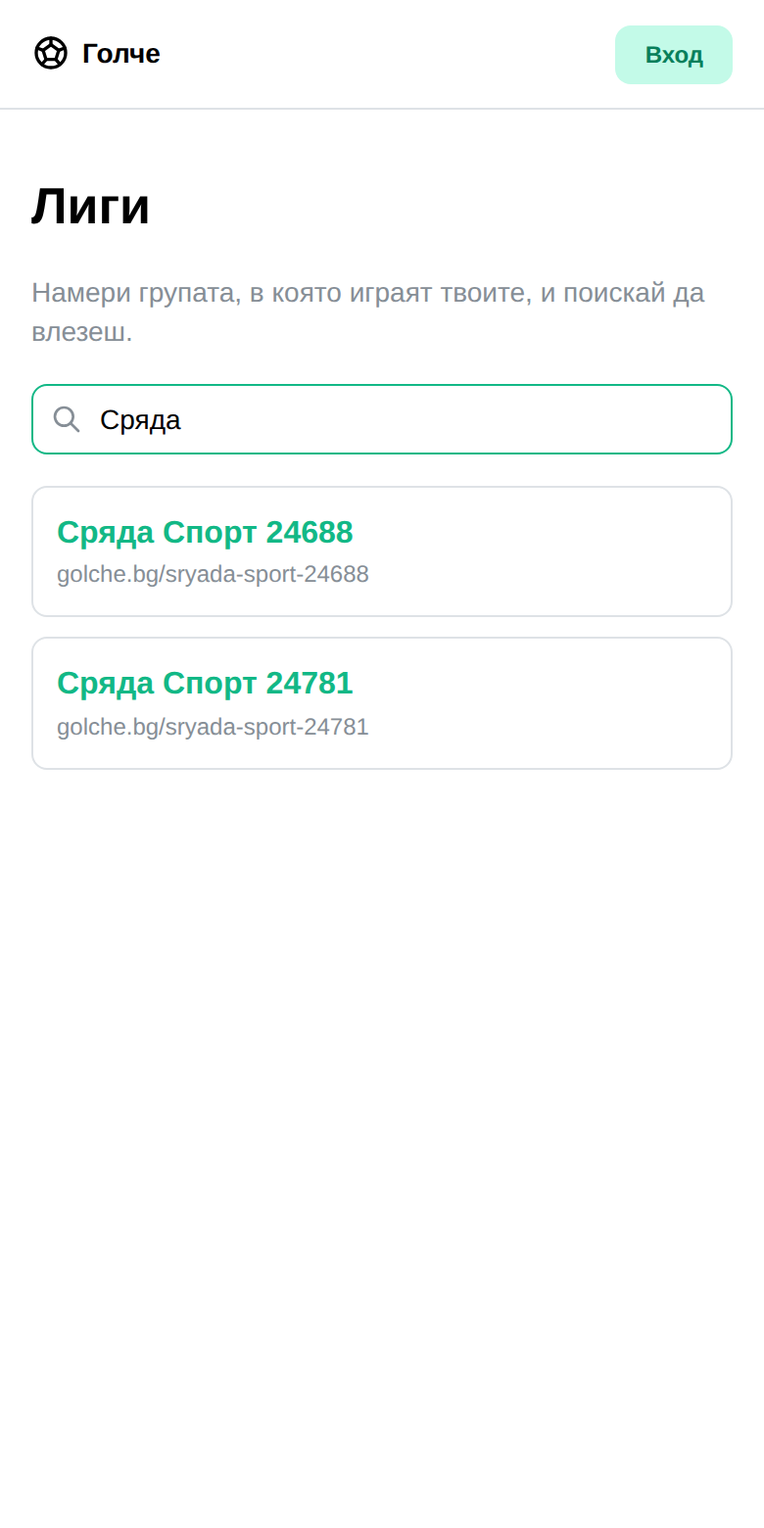
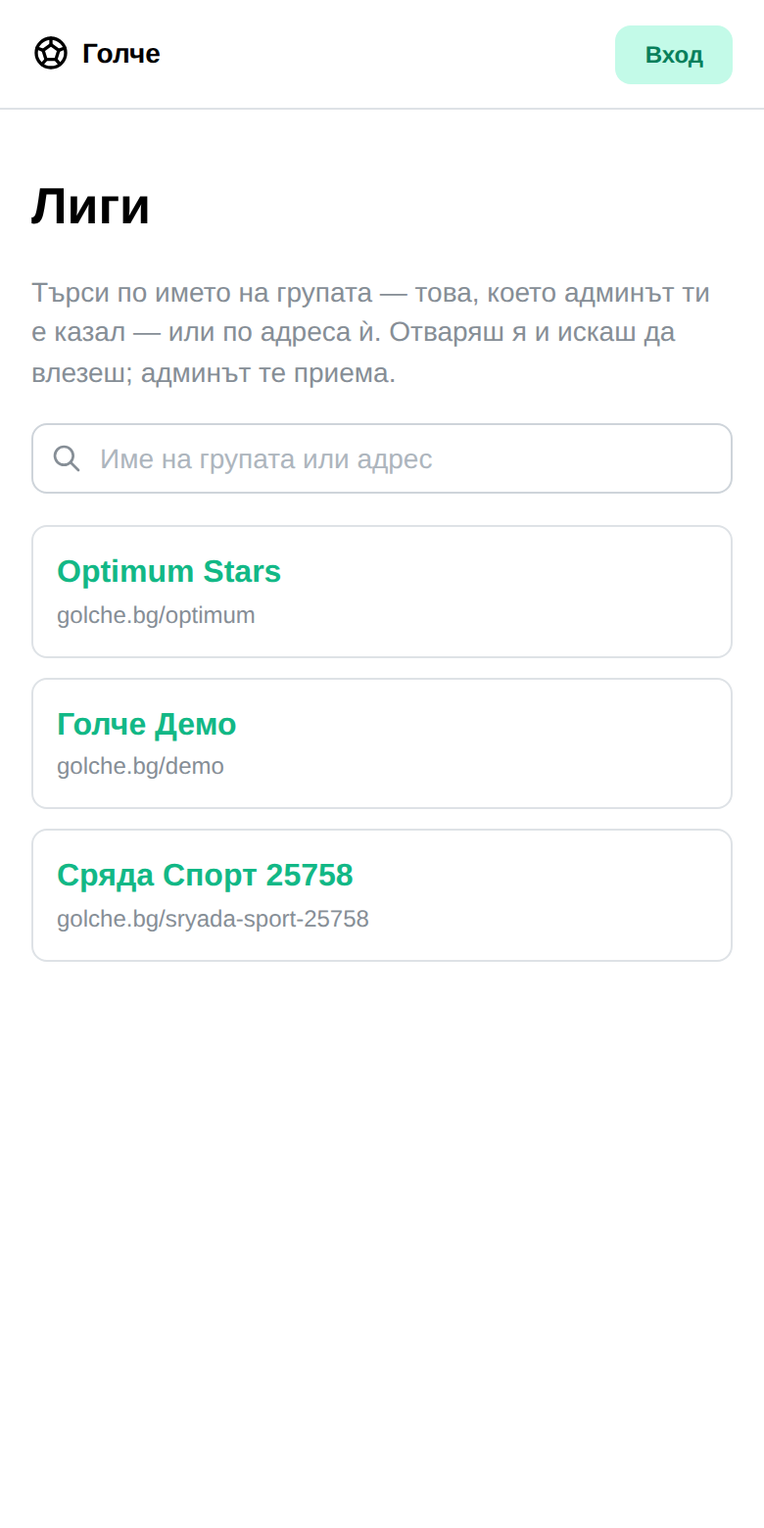
Голче: final usability review of the join flow
The whole journey both sides, at 390px, with what the review found and
fixed — the signed-out dead end, the search that ignored the address, the
count with nowhere to go, the redundant field, the two vocabularies.

Changed region(s): [[0.0308, 0.1846, 0.9538, 0.5231], [0.0615, 0.5538, 0.4923, 0.6154], [0.9538, 0.2769, 0.9846, 0.3077]]

diff --git a/docs/join-requests/index.html b/docs/join-requests/index.html
@@ -3,7 +3,7 @@
 <head>
 <meta charset="UTF-8">
 <meta name="viewport" content="width=device-width, initial-scale=1.0">
-<title>Заявки за влизане — OSJR</title>
+<title>Заявки за влизане — преглед</title>
 <style>
   :root{--ink:#1c2733;--ink-soft:#43525f;--paper:#faf6ef;--card:#fff;
         --line:#e7ddcd;--accent:#c8632f;--ok:#2a8c79;--bad:#cf4b46;
@@ -27,22 +27,28 @@
   .lede{margin:14px 0 0;font-family:Georgia,serif;font-style:italic;font-size:18px;
         color:#d8cdbc;max-width:60ch}
   .note{margin:18px 0 0;font-size:13.5px;color:#a8bcb8;max-width:62ch}
-  h2{font-size:23px;margin:42px 0 12px;padding-bottom:7px;border-bottom:2px solid var(--line)}
+  h2{font-size:23px;margin:44px 0 12px;padding-bottom:7px;border-bottom:2px solid var(--line)}
+  h2 .step{color:var(--accent);font-size:15px;letter-spacing:.08em;text-transform:uppercase;
+           display:block;font-family:-apple-system,sans-serif;font-weight:700;margin-bottom:3px}
   p{margin:0 0 15px}
   ul{margin:0 0 15px;padding-left:22px}
   li{margin:0 0 9px}
-  figure{margin:0 0 38px}
-  figure h3{font-family:Georgia,serif;font-size:19px;margin:0 0 6px;line-height:1.3}
+  figure{margin:0 0 34px}
   figure p{margin:0 0 13px;color:var(--ink-soft);font-size:15.5px}
   .shot{background:var(--shot-bg);border:1px solid var(--line);border-radius:12px;padding:13px;
-        display:flex;justify-content:center}
-  .shot img{display:block;max-width:320px;width:100%;height:auto;border-radius:7px;
+        display:flex;justify-content:center;gap:12px;flex-wrap:wrap}
+  .shot img{display:block;max-width:300px;width:100%;height:auto;border-radius:7px;
             box-shadow:0 3px 14px rgba(28,39,51,.17)}
   .callout{background:var(--card);color:var(--ink);border:1px solid var(--line);
            border-left:4px solid var(--accent);border-radius:0 10px 10px 0;padding:15px 19px;margin:0 0 18px}
-  .callout.warn{border-left-color:var(--bad)}
+  .callout.fixed{border-left-color:var(--ok)}
   .callout p:last-child{margin-bottom:0}
-  footer{margin-top:20px;padding-top:18px;border-top:1px solid var(--line);
+  .rows{margin:0 0 18px}
+  .row{background:var(--card);border:1px solid var(--line);border-radius:9px;
+       padding:12px 16px;margin:0 0 9px}
+  .row b{display:block;margin-bottom:2px}
+  .row span{color:var(--ink-soft);font-size:15px}
+  footer{margin-top:24px;padding-top:18px;border-top:1px solid var(--line);
          color:var(--ink-soft);font-size:14px}
   @media (max-width:640px){
     body{font-size:16px}
@@ -51,7 +57,6 @@
     .lede{font-size:16.5px}
     .wrap{padding:0 16px 60px}
     h2{font-size:20px}
-    figure h3{font-size:17.5px}
     .shot{padding:9px}
   }
 </style>
@@ -59,93 +64,107 @@
 <body>
 <header class="hero">
   <div class="hero-in">
-    <p class="kicker">optimum-stars · OSJR</p>
-    <h1>Хората вече могат да поискат да влязат</h1>
-    <p class="lede">Досега всеки вход в група минаваше през админ, който трябваше да знае, че някой иска, и да му знае имейла. Сега човекът сам казва кой е, а админът само отсъжда.</p>
-    <p class="note">Всички хора и адреси тук са измислени. Екраните са истински — снимани в браузър срещу пълния стек: регистрация, нова лига, състав, натиснат бутон, одобрена заявка.</p>
+    <p class="kicker">optimum-stars · OSJR · финален преглед</p>
+    <h1>Как човек влиза в група и как админът го приема</h1>
+    <p class="lede">Целият път, от двете страни: как те намират, как искат, какво вижда админът и какво натиска.</p>
+    <p class="note">Всички хора и адреси са измислени. Екраните са истински — снимани в браузър на 390px срещу пълния стек: регистрация, нова лига, състав, заявки, одобрение.</p>
   </div>
 </header>
 
 <div class="wrap">
 
-<h2>Какво влезе</h2>
-<p><b>Четири неща, едно от друго.</b> Списък с лигите, за да те намерят. Възможност да посочиш себе си в състава — съществуваше, но се стигаше до нея само вътре в мач. Заявка за влизане, за човек, който още не е в никой състав. И число в хедъра, което казва на админа, че го чака работа.</p>
-<div class="callout">
-<p><b>Причината за третото.</b> Заявките „това съм аз“ работят от седмици. Никой не ги ползваше — единственият начин да разбереш, че някой е поискал, беше да отвориш „Играчи“ напосоки. Затова изглеждаше, че функцията липсва. Опашка, за която не ти казват, е опашка, която никой не изпразва.</p>
-</div>
-
+<h2><span class="step">Стъпка 1</span>Намираш групата</h2>
 <figure>
-  <h3>1. Намираш лигата</h3>
-  <p>Публичен списък на <code>golche.bg/leagues</code>, с търсачка. Само име и адрес — нищо за хората вътре. Страниците на лигите и досега бяха отворени за всеки с линк; новото е, че вече могат да се <em>намерят</em>.</p>
-  <div class="shot"><img src="01-directory.png" alt="Списъкът с лиги, филтриран по „Сряда“"></div>
-</figure>
-
-<figure>
-  <h3>2. Два входа, една карта</h3>
-  <p>Отваряш групата и тя те пита направо. <b>Ако си в състава</b> — посочваш кой си. <b>Ако те няма</b> — искаш да влезеш. Картата я няма за човек, който вече играе там, нито за админа, нито за неразпознат посетител.</p>
-  <div class="callout">
-    <p>Първият вход съществуваше отпреди, но се стигаше до него само вътре в страницата на конкретен мач, докато гласуваш. Човек, който гледа самата лига, нямаше как да го намери — затова питаше да влезе като нов и админът налучкваше кой е.</p>
+  <p><code>golche.bg/leagues</code> — публичен списък. Търсенето хваща <b>където и да е в името или в адреса</b>, без значение от главни букви. Не е точно съвпадение и не е само от началото: който помни само „Спорт“, я намира.</p>
+  <p>Затова админът може да каже както името („Сряда Спорт“), така и адреса (<code>golche.bg/sryada-sport</code>) — и двете работят.</p>
+  <div class="shot">
+    <img src="01-directory.png" alt="Списъкът с всички лиги">
+    <img src="02-search.png" alt="Търсене по „спорт“, което оставя една лига">
   </div>
-  <div class="shot"><img src="02-two-doors.png" alt="Картата с падащо меню за състава и бутон „Искам да вляза“"></div>
 </figure>
 
+<h2><span class="step">Стъпка 2</span>Отваряш я</h2>
 <figure>
-  <h3>3. Посочваш себе си</h3>
-  <p>Ти знаеш кой си; админът не знае. Затова питаме теб.</p>
-  <div class="shot"><img src="03-picking-himself.png" alt="Отворено меню с имената от състава"></div>
-</figure>
-
-<figure>
-  <h3>4. Чакаш — и виждаш кого си посочил</h3>
-  <p>Името е изписано обратно към теб, за да видиш, че си избрал правилния човек. Може и да я оттеглиш, ако си сбъркал.</p>
-  <div class="shot"><img src="04-claim-pending.png" alt="„Заявката ти да те свържем с Момчил Драганов чака одобрение“"></div>
-</figure>
-
-<figure>
-  <h3>5. Другият вход — за нов човек</h3>
-  <p>Който го няма в състава, просто иска да влезе. Заявката не дава нищо — нито глас, нито място в класирането.</p>
-  <div class="shot"><img src="05-join-pending.png" alt="„Заявката ти чака одобрение от админ“"></div>
-</figure>
-
-<figure>
-  <h3>6. Админът разбира — без да отваря нищо</h3>
-  <p>Оранжевото число до „АДМИН“ в хедъра. Едно число за двата вида заявки. Няма го, когато няма работа — значка, която стои винаги, е значка, която никой не гледа.</p>
-  <div class="shot"><img src="06-badge.png" alt="Хедърът с оранжева значка до АДМИН"></div>
-</figure>
-
-<figure>
-  <h3>7. Отсъжда — на едно място</h3>
-  <p>„Заявки за влизане“ и „Заявки за свързване“ една под друга, на страницата „Играчи“. Всеки ред казва кой е поискал и от кой адрес.</p>
-  <div class="callout">
-    <p><b>Няма какво да попълваш.</b> Приемаш или отказваш. Който е посочил себе си, влиза върху своето име — то вече стои на реда. За новия групата прави нов играч, кръстен на профила му; преименуваш го от редактора, ако трябва.</p>
+  <p>Ако не си влязъл в профила си, екранът ти го казва и те праща да влезеш — и после те връща тук. Заявка се подава само с профил.</p>
+  <div class="callout fixed">
+    <p><b>Поправено при този преглед.</b> Дотук картата просто не се показваше на невлязъл човек. Той идваше от списъка точно за да поиска и попадаше на страница без вход и без обяснение.</p>
   </div>
-  <div class="shot"><img src="07-queue.png" alt="Двете опашки със заявки и бутоните за отсъждане"></div>
+  <div class="shot"><img src="03-signed-out.png" alt="Картата, която казва на невлязъл посетител да влезе"></div>
 </figure>
 
+<h2><span class="step">Стъпка 3</span>Казваш кой си</h2>
 <figure>
-  <h3>8. Влязъл е</h3>
-  <p>Става обикновен играч в състава — не админ. Числото пада с него.</p>
-  <div class="shot"><img src="08-after-approval.png" alt="След одобрението: една заявка по-малко"></div>
+  <p>Влязъл, картата дава два входа. <b>Ако си в състава</b> — посочваш се от списъка. <b>Ако те няма</b> — искаш да влезеш и админът ще ти направи ред.</p>
+  <p>Ти знаеш кой си; админът не знае. Затова питаме теб — и затова при одобрението няма какво да се попълва.</p>
+  <div class="shot">
+    <img src="04-two-doors.png" alt="Картата с двата входа">
+    <img src="05-picking-himself.png" alt="Отворено меню с имената от състава">
+  </div>
 </figure>
 
-<h2>Какво нарочно не влезе</h2>
+<h2><span class="step">Стъпка 4</span>Чакаш</h2>
+<figure>
+  <p>Заявката не дава нищо: нито глас, нито място в класирането. Ако си посочил себе си, името е изписано обратно към теб — за да видиш, че си избрал правилния човек. И двете се оттеглят.</p>
+  <div class="shot">
+    <img src="06-claim-pending.png" alt="Чакаща заявка за свързване, с името">
+    <img src="07-join-pending.png" alt="Чакаща заявка за влизане">
+  </div>
+</figure>
+
+<h2><span class="step">Стъпка 5</span>Админът разбира</h2>
+<figure>
+  <p>Оранжево число върху аватара. Едно число за двата вида заявки — админ, на когото казват за единия и не за другия, изпразва половината и мисли, че е свършил. Няма го, когато няма работа.</p>
+  <p>Отваряш менюто и същото число стои до „Играчи“ — там е работата.</p>
+  <div class="callout fixed">
+    <p><b>Поправено при този преглед.</b> Числото стоеше само върху аватара: админът виждаше 2 и трябваше да гадае кой екран му го дължи.</p>
+  </div>
+  <div class="shot">
+    <img src="08-badge.png" alt="Хедърът с оранжево число върху аватара">
+    <img src="09-menu.png" alt="Менюто със същото число до „Играчи“">
+  </div>
+</figure>
+
+<h2><span class="step">Стъпка 6</span>Отсъжда</h2>
+<figure>
+  <p>Двете опашки една под друга, на „Играчи“. Всеки ред казва какво е кое:</p>
+  <div class="rows">
+    <div class="row"><b>Заявки за влизане</b><span>Профил: име · имейл. Няма играч — човекът каза, че не е в състава. Затова няма и какво да попълваш.</span></div>
+    <div class="row"><b>Заявки за свързване</b><span>Играч: кой от състава · Профил: от кой имейл. Двете неща са отделни редове, защото са две различни неща.</span></div>
+  </div>
+  <p>Едни и същи два бутона на двата вида: <b>Одобри</b> и <b>Отхвърли</b>.</p>
+  <div class="shot">
+    <img src="10-queue.png" alt="Двете опашки с еднакви бутони">
+    <img src="11-after-approval.png" alt="След одобрението: една заявка по-малко и числото пада"></div>
+</figure>
+
+<h2>Какво намерих и оправих при прегледа</h2>
 <ul>
-  <li><b>Отделно „член“, който не е играч.</b> Влизането значи място в състава. В приложението няма какво да прави човек, който е член и не играе — страниците на лигите и без това са публични, а за глас трябва име в състава.</li>
+  <li><b>Невлязъл човек не виждаше нищо</b> на страницата на групата — задънена улица точно за този, който току-що я е намерил. Сега му се казва и се връща обратно след влизане.</li>
+  <li><b>Търсенето не хващаше адреса</b>, а админът често праща точно адреса. Вече хваща и двете, навсякъде в тях.</li>
+  <li><b>Числото нямаше накъде да води.</b> Сега стои и до „Играчи“ в менюто.</li>
+  <li><b>Полето при одобрението беше излишно</b> — питаше админа нещо, което човекът вече е казал. Махнато: само одобри или отхвърли.</li>
+  <li><b>Двете опашки говореха различно</b> — „Приеми/Откажи“ до „Одобри/Отхвърли“. Сега са едни и същи думи.</li>
+  <li><b>Редовете криеха имейла</b> при 390px („a.v…“). Двата реда вече се събират.</li>
+  <li><b>Значката с числото беше избутала менюто на профила извън екрана</b> при 375px. Тя мина върху аватара; „Админ“ се скрива на телефон, за да има място.</li>
+</ul>
+
+<h2>Какво съзнателно не е там</h2>
+<ul>
+  <li><b>Отделно „член“, който не е играч.</b> Влизането значи място в състава — иначе човекът няма какво да прави.</li>
   <li><b>Имейл или известие.</b> Числото е на екрана; нищо не се изпраща.</li>
-  <li><b>Излизане от група.</b> Отвързването си остава на админа — то е единственото действие, което мести глас от един човек на друг.</li>
+  <li><b>Избор на играч при одобрението.</b> Човекът вече го е посочил сам.</li>
 </ul>
 
 <h2>Какво бих отбелязал на ревю</h2>
 <ul>
-  <li><b>Списъкът с лиги е ново публично разкритие</b> — вече всеки може да изброи имената на всички групи. Ти го избра нарочно; отбелязвам го, защото е същият клас решение като списъка с акаунти, който махнахме.</li>
-  <li><b>Две опашки, два почти еднакви компонента.</b> Различават се по това, че заявката за влизане има падащо меню, а „това съм аз“ никога няма да има — вече си казва кой е. Ако се сближат пак, се слива.</li>
-  <li><b>Падащото меню в картата показва целия състав</b>, включително хора, които вече гласуват от профил. Сървърът отказва такъв избор, но човекът научава, че въпросният играч има профил. Същото беше вярно и досега на страницата на мача, така че не е ново — но си е разкритие.</li>
-  <li><b>Ако някой сбърка входа</b> — вече е в състава, но натисне „Искам да вляза“ — одобрението прави втори негов ред. Оправя се: триеш излишния играч и свързваш профила от редактора. Картата слага посочването първо точно за да е рядко.</li>
-  <li><b>Значката пази състояние извън React.</b> Хедърът и опашката не са в роднинска връзка; малък абонамент е по-евтин от контекст през целия рутер. Но е глобално състояние и се брои за такова.</li>
+  <li><b>Списъкът с лиги е публичен</b> — вече всеки може да изброи имената на всички групи. Избрано нарочно; отбелязвам го, защото е същият клас решение като списъка с акаунти, който махнахме.</li>
+  <li><b>Ако някой сбърка входа</b> — вече е в състава, но натисне „Искам да вляза“ — одобрението прави втори негов ред. Оправя се: триеш излишния и свързваш профила от редактора.</li>
+  <li><b>„Админ“ вече не се вижда на телефон.</b> Заменя се от менюто до него, но е загуба и си е загуба.</li>
+  <li><b>Падащото меню показва целия състав</b>, включително вече свързани хора. Сървърът отказва, но човекът научава, че въпросният играч има профил. Същото важеше и досега на страницата на мача.</li>
 </ul>
 
 <footer>
-Изисквания: <code>OSJR_requirements.md</code> · До момента: OSPA (админ свързва играч с профил), OSPC („това съм аз“), OSAP (направи го админ).
+Изисквания: <code>OSJR_requirements.md</code> · Съседни: OSPA (админ свързва играч с профил), OSPC („това съм аз“), OSAP („направи го админ“).
 </footer>
 </div>
 </body>
